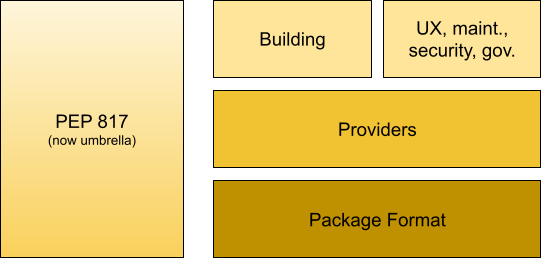
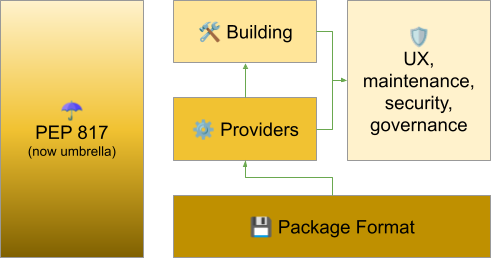
Clean up Fig. 1

diff --git a/apps/labs/posts/a-year-into-wheel-variant-work.md b/apps/labs/posts/a-year-into-wheel-variant-work.md
@@ -55,7 +55,7 @@ Finally, given the complexity of providers, we decided to further split the 
 <div style="text-align: center">
 <figure style="width: auto; margin: 0 2em; display: inline-block; verticalAlign: top">
   <img src="/posts/a-year-into-wheel-variant-work/peps.png"
-    width="541" height="258" alt="TODO" />
+    width="491" height="258" alt="A diagram describing the PEP structure. To the left, PEP 817 (now umbrella) is shown, at full height. To the right, there is a wide Package Format block on the bottom. Above it and to the left, an arrow points at Providers block, and further upwards into Building block. To the right of Providers and Building blocks two arrows combine and point into UX, maintenance, security, governance block." />
   <figcaption>Fig. 1. The structure of Wheel Variants PEPs</figcaption>
 </figure>
 </div>
